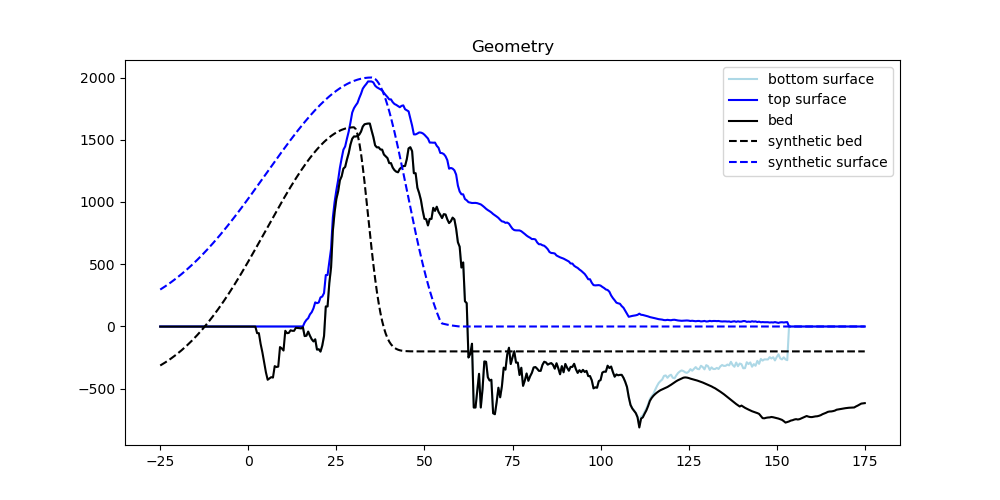
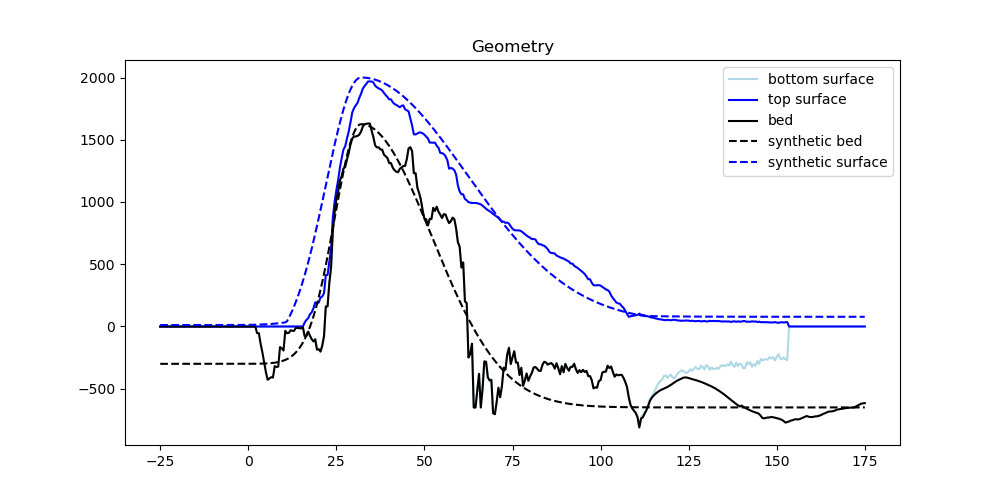
tweaking the geometry

diff --git a/animate.py b/animate.py
@@ -11,38 +11,67 @@ matplotlib.use("Agg")
 import matplotlib.pyplot as plt
 from matplotlib.animation import FFMpegWriter
 import netCDF4
+from argparse import ArgumentParser, ArgumentDefaultsHelpFormatter
 
-def update(ax, data, index, variables):
+def update(ax, data, index):
     year = 365 * 86400
 
     x = data.variables["x"][:] * 1e-3
     t = data.variables["time"][index]
 
-    ax.cla()
+    ax[0].cla()
+    ax[1].cla()
+    ax_b.cla()
 
-    for v in variables:
-        y = data.variables[v][index, 1, :]
-        ax.plot(x, y, label=v)
+    speed = data.variables["velsurf_mag"][index, 1, :]
+    bmelt = data.variables["bmelt"][index, 1, :]
+    topg = data.variables["topg"][index, 1, :]
+    usurf = data.variables["usurf"][index, 1, :]
+    thk = data.variables["thk"][index, 1, :]
+    surface = np.ma.array(data=usurf, mask=(thk < 1))
+    basal_topography = np.ma.array(data=(usurf-thk), mask=(thk < 1))
+    basal_melt = np.ma.array(data=-bmelt, mask=(thk < 1))
+    speed = np.ma.array(data=speed, mask=(thk < 10))
+    ax[0].plot(x, speed, label="Speed (m/yr)")
+    ax_b.plot(x, basal_melt, color="k", label="Basal melt")
+    ax[1].plot(x, topg, label="Bed")
+    ax[1].plot(x, surface, label="surface")
+    ax[1].plot(x, basal_topography, label="ice bottom")
+    ax[0].set_ylim(ymin=0, ymax=500)
+    ax[1].set_ylim(ymin=-750, ymax=2200)
+    ax[0].set_ylabel("Speed (m/r)")
+    ax_b.set_ylabel("Melt rate (m/r)")
+    ax[1].set_ylabel("Elevation (m)")
+    ax[1].legend()
 
-    ax.set_ylim(ymin=-600, ymax=2100)
+    ax[0].set_title(f"Time: {t / year}")
 
-    ax.set_title(f"Time: {t / year}")
-    ax.legend()
-
-    ax.grid(True)
 
 if __name__ == "__main__":
-    data = netCDF4.Dataset("ex.nc")
+    parser = ArgumentParser(formatter_class=ArgumentDefaultsHelpFormatter)
+    parser.add_argument("FILE", nargs=1, help="Input file", default=None)
+    parser.add_argument("OUTFILE", nargs=1, help="Output file", default=None)
+    options = parser.parse_args()
+
+    infile = options.FILE[-1]
+    outfile= options.OUTFILE[-1]
+    data = netCDF4.Dataset(infile)
 
     N = len(data.variables["time"])
 
-    variables = ["usurf", "topg"]
-
     writer = FFMpegWriter(fps=15, metadata={"title" : "Flowline run"})
 
-    fig, ax = plt.subplots()
+    fig, ax = plt.subplots(
+        2,
+        1,
+        sharex="col",
+        figsize=[6.2, 4.0],
+        clear=True,
+    )
+    fig.subplots_adjust(wspace=0.025)
+    ax_b = ax[0].twinx()
 
-    with writer.saving(fig, "evolution.mp4", 100):
+    with writer.saving(fig, outfile, 100):
         for i in range(N):
-            update(ax, data, i, variables)
+            update(ax, data, i)
             writer.grab_frame()

diff --git a/preprocess.py b/preprocess.py
@@ -43,8 +43,8 @@ def synthetic_geometry(grid):
     with PISM.vec.Access([bed, thickness]):
         for i, j in grid.points():
             xi = grid.x(i)
-            b = flowline.bump(xi, x0=30e3, zmax=1600, zmin_l=-200, zmin_r=-500, sigma_l=4e3, sigma_r=25e3)
-            s = flowline.bump(xi, x0=35e3, zmax=2000, zmin_l=-300, zmin_r=30, sigma_l=10e3, sigma_r=30e3)
+            b = flowline.bump(xi, x0=32e3, zmax=1625, zmin_l=-300, zmin_r=-650, sigma_l=7.5e3, sigma_r=20e3)
+            s = flowline.bump(xi, x0=32e3, zmax=2000, zmin_l=-200, zmin_r=30, sigma_l=10e3, sigma_r=30e3)
             bed[i, j] = b
             thickness[i, j] = max(s - b, 0)
 
@@ -151,12 +151,45 @@ temp.write(out)
 
 out.close()
 
+out = PISM.util.prepare_output("ocean.nc")
+
+x_s = 35e3
+
+TH_e = -2.0
+TH_w = 0.23
+TH = PISM.IceModelVec2S(grid, "theta_ocean", PISM.WITHOUT_GHOSTS)
+TH.set(TH_w)
+
+with PISM.vec.Access(TH):
+    for i,j in grid.points():
+        xi = grid.x(i)
+        TH[i, j] = (xi > x_s) * TH_e
+
+TH.metadata().set_string("units", "Celsius")
+TH.write(out)
+
+S_e = 34.84
+S_w = 34.70
+
+S = PISM.IceModelVec2S(grid, "salinity_ocean", PISM.WITHOUT_GHOSTS)
+S.set(S_w)
+
+with PISM.vec.Access(S):
+    for i,j in grid.points():
+        xi = grid.x(i)
+        S[i, j] = (xi > x_s) * S_e
+
+S.metadata().set_string("units", "g/kg")
+S.write(out)
+
+out.close()
+
 # Prescribe maximum ice extent.
 
 ice_extent_mask = PISM.IceModelVec2S(grid, "land_ice_area_fraction_retreat", PISM.WITHOUT_GHOSTS)
 ice_extent_mask.metadata().set_string("units", "1")
 
-x_min = 0e3
+x_min = 20e3
 x_max = 150e3
 
 with PISM.vec.Access(ice_extent_mask):

diff --git a/flowline.py b/flowline.py
@@ -19,8 +19,8 @@ def bump(x, x0=0, zmin_l=-300, zmin_r=50, zmax=2000, sigma_l=10e3, sigma_r=25e3)
     A_l = zmax - zmin_l
     A_r = zmax - zmin_r
 
-    left  = zmin_r + A_r * np.exp(-(((x - x0) ** 2 / (2 * sigma_r ** 2))))
-    right = zmin_l + A_l * np.exp(-(((x - x0) ** 2 / (2 * sigma_l ** 2))))
+    left  = zmin_l + A_l * np.exp(-(((x - x0) ** 2 / (2 * sigma_l ** 2))))
+    right = zmin_r + A_r * np.exp(-(((x - x0) ** 2 / (2 * sigma_r ** 2))))
 
     return ((x <= x0) * left + (x > x0) * right)
 
@@ -32,7 +32,7 @@ def grid(x_min, x_max, dx):
     y0 = 0.0
 
     Lx = (x_max - x_min) / 2.0
-    Ly = 2.0 * dy
+    Ly = dy
     Mx = int((x_max - x_min) / dx) + 1
     My = 3
 
